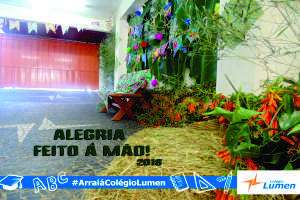
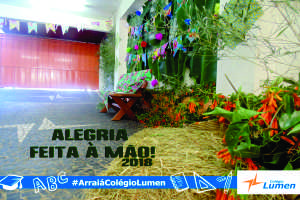
fotos

Changed region(s): [[0.09, 0.63, 0.57, 0.84]]

diff --git a/veja2018/pre1.html b/veja2018/pre1.html
@@ -57,6 +57,12 @@ permalink: /veja2018/pre1
     
     <ul class="row">
          <li class="col-sm-3">
+            <a href="https://photos.app.goo.gl/3UTQBjGhEG6U51U56" target="_blank">
+                <img src="/img/fotos/capa628.jpg">
+                <p>Parts of The Body</p>
+            </a>
+        </li>
+         <li class="col-sm-3">
             <a href="https://photos.app.goo.gl/z5b8y6cMoHM2d3cL2" target="_blank">
                 <img src="/img/fotos/capa615.jpg">
                 <p>Autografo do Meu Livro: Tina e o Cão</p>
@@ -74,16 +80,16 @@ permalink: /veja2018/pre1
                 <p>Confecção do Instrumento Musical: Chocalho</p>
             </a>
         </li>
-         <li class="col-sm-3">
+    </ul>
+        
+    
+    <ul class="row">
+        <li class="col-sm-3">
             <a href="https://photos.app.goo.gl/EsqSK4ltP3rQRAhD3" target="_blank">
                 <img src="/img/fotos/capa609.jpg">
                 <p>A Caixa Surpresa: O Livro Sem História</p>
             </a>
         </li>
-    </ul>
-        
-    
-    <ul class="row">
          <li class="col-sm-3">
             <a href="https://photos.app.goo.gl/MBJ2TDb0Gd6yW1Ov2" target="_blank">
                 <img src="/img/fotos/capa606.jpg">
@@ -102,16 +108,16 @@ permalink: /veja2018/pre1
                 <p>Bandinha Musical</p>
             </a>
         </li>
+    </ul>
+        
+    
+    <ul class="row">
          <li class="col-sm-3">
             <a href="https://photos.app.goo.gl/MBFm5Uf46B3nCxZb2" target="_blank">
                 <img src="/img/fotos/capa583.jpg">
                 <p>Dia das Mães 2018</p>
             </a>
         </li>
-    </ul>
-        
-    
-    <ul class="row">
           <li class="col-sm-3">
             <a href="https://photos.app.goo.gl/cLAWZ4rCHIIGAnaq2" target="_blank">
                 <img src="/img/fotos/capa580.jpg">
@@ -130,16 +136,16 @@ permalink: /veja2018/pre1
                 <p>Dia do Pet</p>
             </a>
         </li>
-         <li class="col-sm-3">
+    </ul>
+        
+        
+   <ul class="row">
+        <li class="col-sm-3">
             <a href="https://photos.app.goo.gl/dJ9yjo1wyH3Mad5a2" target="_blank">
                 <img src="/img/fotos/capa570.jpg">
                 <p>Boys and Girls Outside</p>
             </a>
         </li>
-    </ul>
-        
-        
-   <ul class="row">
          <li class="col-sm-3">
             <a href="https://photos.app.goo.gl/KpVzYqnJb2rcBDL42" target="_blank">
                 <img src="/img/fotos/capa569.jpg">
@@ -158,16 +164,16 @@ permalink: /veja2018/pre1
                 <p>Dia do Índio</p>
             </a>
         </li>
-         <li class="col-sm-3">
+    </ul>    
+        
+        
+    <ul class="row">
+          <li class="col-sm-3">
             <a href="https://photos.app.goo.gl/8iW8ggcJgmwOL0Qo1" target="_blank">
                 <img src="/img/fotos/capa550.jpg">
                 <p>Sítio</p>
             </a>
         </li>
-    </ul>    
-        
-        
-    <ul class="row">
         <li class="col-sm-3">
             <a href="https://photos.app.goo.gl/80IyKJ0JK8bp5FU22" target="_blank">
                 <img src="/img/fotos/capa545.jpg">
@@ -186,17 +192,17 @@ permalink: /veja2018/pre1
                 <p>Formando Filas Diferentes</p>
             </a>
         </li>
+    </ul>    
+        
+   
+   
+    <ul class="row">
         <li class="col-sm-3">
             <a href="https://photos.app.goo.gl/B3GKsouuUAorB1Pr1" target="_blank">
                 <img src="/img/fotos/capa538.jpg">
                 <p>Caça aos Ovos</p>
             </a>
         </li>
-    </ul>    
-        
-   
-   
-    <ul class="row">
         <li class="col-sm-3">
             <a href="https://photos.app.goo.gl/4KmlzZyEtXjJQAXl2" target="_blank">
                 <img src="/img/fotos/capa536.jpg">
@@ -215,16 +221,16 @@ permalink: /veja2018/pre1
                 <p>Confeccionando o Ovo de Páscoa</p>
             </a>
         </li>
-        <li class="col-sm-3">
+    </ul>    
+        
+    
+    <ul class="row">
+         <li class="col-sm-3">
             <a href="https://photos.app.goo.gl/dAO1dKmbGGnpXmF32" target="_blank">
                 <img src="/img/fotos/capa532.jpg">
                 <p>Visita do Coelho</p>
             </a>
         </li>
-    </ul>    
-        
-    
-    <ul class="row">
          <li class="col-sm-3">
             <a href="https://photos.app.goo.gl/CuNTpJqfOg7M5RCj1" target="_blank">
                 <img src="/img/fotos/capa513.jpg">
@@ -243,16 +249,16 @@ permalink: /veja2018/pre1
                 <p>Dobradura: Barco</p>
             </a>
         </li>
-         <li class="col-sm-3">
+    </ul>    
+        
+    
+    <ul class="row"> 
+       <li class="col-sm-3">
             <a href="https://photos.app.goo.gl/NeieqhHT180o9Xwa2" target="_blank">
                 <img src="/img/fotos/capa501.jpg">
                 <p>Passeio na Escola</p>
             </a>
         </li>
-    </ul>    
-        
-    
-    <ul class="row"> 
       <li class="col-sm-3">
             <a href="https://photos.app.goo.gl/dL2BtC7MSM6E7RDf2" target="_blank">
                 <img src="/img/fotos/capa500.jpg">
@@ -271,17 +277,17 @@ permalink: /veja2018/pre1
                 <p>Trabalhando a escrita do nome</p>
             </a>
         </li>
-          <li class="col-sm-3">
-            <a href="https://photos.app.goo.gl/YZr8HDm8rK8ZKkyN2" target="_blank">
-                <img src="/img/fotos/capa480.jpg">
-                <p>Explorando o desenho com giz</p>
-            </a>
-        </li>
     </ul>    
         
     
     
     <ul class="row">  
+       <li class="col-sm-3">
+            <a href="https://photos.app.goo.gl/YZr8HDm8rK8ZKkyN2" target="_blank">
+                <img src="/img/fotos/capa480.jpg">
+                <p>Explorando o desenho com giz</p>
+            </a>
+        </li>
        <li class="col-sm-3">
             <a href="https://photos.app.goo.gl/ov04ANRUy9y4Zr962" target="_blank">
                 <img src="/img/fotos/capa479.jpg">
@@ -300,6 +306,9 @@ permalink: /veja2018/pre1
                 <p>Intervalão EI</p>
             </a>
         </li>
+    </ul>    
+        
+    <ul class="row">      
       <li class="col-sm-3">
             <a href="https://photos.app.goo.gl/RycrGVEUW4RwOsDb2" target="_blank">
                 <img src="/img/fotos/capa465.jpg">

diff --git a/area-aluno/arquivos.html b/area-aluno/arquivos.html
@@ -50,6 +50,7 @@ permalink: /arquivos/
                     <div class="col-sm-3">
                          <button type="button" class="btn t-center btn-full" data-toggle="collapse" data-target="#demo2">Matemática</button>
                          <div id="demo2" class="collapse">
+                        <a href="https://drive.google.com/open?id=1NviqMBVcxS6MobW-I59qZ_NMgu9HFk0M" target="_blank">Resolução Recuperação 2º Bim - 1°EM - MAT Setor A - 1EM</a><br>
                         <a href="https://drive.google.com/open?id=1Tx876d14_mMmMc3huhNkjcNWnVyKV8Re" target="_blank">Lista Recuperação 2º Bim - 1°EM - MAT Setor A - 1EM</a><br>
                         <a href="https://drive.google.com/open?id=1sSLE3W-55vc_AsysulL9GL_E2_D0DS7x" target="_blank">Gabarito Recuperação 2º Bim - 1°EM - MAT Setor A - 1EM</a><br>
                         <a href="https://drive.google.com/open?id=1ORCHMX-d3FmVH-PZWEY24526V4pTOgGmADKFl_1mG38" target="_blank">Trabalho 2º Bim - MAT Setor A - 1EM</a><br>

diff --git a/fotos/index.html b/fotos/index.html
@@ -14,7 +14,7 @@ permalink: /fotos/
       <li class="col-sm-3">
             <a href="https://photos.app.goo.gl/C54zDfUQjn4dkeCD9" target="_blank">
                 <img src="/img/fotos/capa627.jpg">
-                <p>Arraiá Colégio Lumen - Alegria Feito À Mão!</p>
+                <p>Arraiá Colégio Lumen - Alegria Feita À Mão!</p>
             </a>
         </li>
     <li class="col-sm-3">
